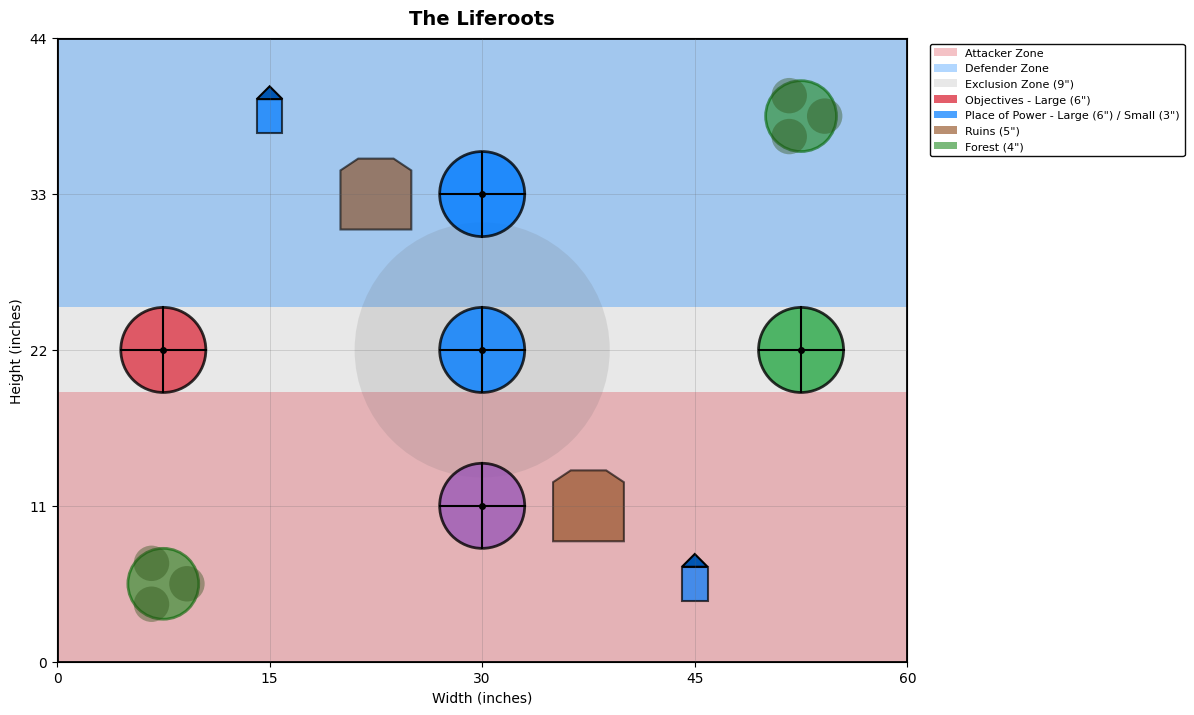
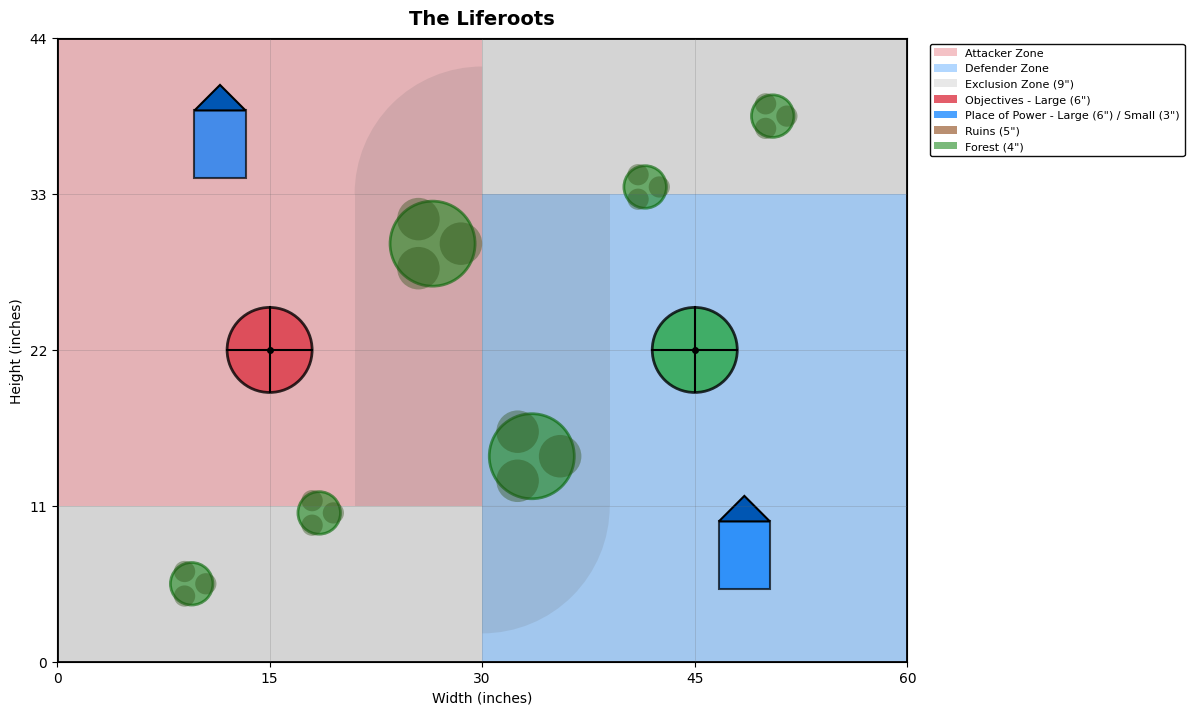
Lock The Liferoots: Complete all 12 GHB 2025-2026 battle plans - vertical split deployment with neutral corners, 9 inch rectangular/quarter-circle exclusions, 2 objectives, 2 large PoP, 2 large forests, 4 small forests

diff --git a/battle-plans-demo.html b/battle-plans-demo.html
@@ -56,7 +56,7 @@
     </div>
     <div class="status-summary">
         <div class="status-item">
-            <span class="status-count locked">10</span>
+            <span class="status-count locked">12</span>
             <div class="status-label">LOCKED</div>
         </div>
         <div class="status-item">
@@ -64,7 +64,7 @@
             <div class="status-label">IN PROGRESS</div>
         </div>
         <div class="status-item">
-            <span class="status-count remaining">1</span>
+            <span class="status-count remaining">-1</span>
             <div class="status-label">REMAINING</div>
         </div>
     </div>
@@ -73,57 +73,6 @@
             <div class="card">
                 <div class="card-header">
                     <div class="mission-num">Mission 1 of 12</div>
-                    <h2>Surge of Slaughter</h2>
-                </div>
-                <div class="grid4">
-                    <div class="col">
-                        <h3><span class="badge badge-waha">WAHAPEDIA</span></h3>
-                        <div class="img-box">
-                            <img src="assets/battle-plans/aos-surge-of-slaughter.png" alt="Surge of Slaughter Wahapedia">
-                            <div class="img-label">Original Source</div>
-                        </div>
-                    </div>
-                    <div class="col">
-                        <h3><span class="badge badge-aoi">AGE OF INDEX</span></h3>
-                        <div class="img-box">
-                            <img src="assets/battle-plans-ageofindex/aos-surge-of-slaughter.png" alt="Surge of Slaughter AOI">
-                            <div class="img-label">ageofindex.com</div>
-                        </div>
-                    </div>
-                    <div class="col">
-                        <h3><span class="badge badge-matplot">MATPLOTLIB</span></h3>
-                        <div class="img-box">
-                            <img src="assets/battle-plans-matplotlib/aos-surge-of-slaughter-matplotlib.png" alt="Surge of Slaughter Generated">
-                            <div class="img-label">Generated Diagram</div>
-                        </div>
-                    </div>
-                    <div class="col">
-                        <h3><span class="badge badge-elem">BATTLEFIELD ELEMENTS</span></h3>
-                        <div class="elem-list">
-                            <div class="elem-item zone-item"><span class="elem-type">Deployment zone</span> Red Top Zone<div class="zone-coords">(0", 22") → (60", 22") → (60", 44") → (0", 44")</div></div>
-                                <div class="elem-item zone-item"><span class="elem-type">Deployment zone</span> Blue Bottom Zone<div class="zone-coords">(0", 0") → (60", 0") → (60", 22") → (0", 22")</div></div>
-                                <div class="elem-item zone-item"><span class="elem-type">Exclusion zone</span> 9" from blue edge<div class="zone-coords">(0", 13") → (60", 13") → (60", 22") → (0", 22")</div></div>
-                                <div class="elem-item zone-item"><span class="elem-type">Exclusion zone</span> 9" from red edge<div class="zone-coords">(0", 22") → (60", 22") → (60", 31") → (0", 31")</div></div>
-                                <div class="elem-item"><span class="elem-type">Objective</span> <span class="color-badge color-blue"></span>Blue Center (large)<span class="coords">(30", 22")</span></div>
-                                <div class="elem-item"><span class="elem-type">Objective</span> <span class="color-badge color-green"></span>Green G2 (large)<span class="coords">(22.5", 38.5")</span></div>
-                                <div class="elem-item"><span class="elem-type">Objective</span> <span class="color-badge color-green"></span>Green G15 (large)<span class="coords">(37.5", 5.5")</span></div>
-                                <div class="elem-item"><span class="elem-type">Objective</span> <span class="color-badge color-red"></span>Red G8 (large)<span class="coords">(52.5", 27.5")</span></div>
-                                <div class="elem-item"><span class="elem-type">Objective</span> <span class="color-badge color-red"></span>Red G9 (large)<span class="coords">(7.5", 16.5")</span></div>
-                                <div class="elem-item"><span class="elem-type">Forest</span> Forest NW (large)<span class="coords">(13.5", 34.5")</span></div>
-                                <div class="elem-item"><span class="elem-type">Forest</span> Forest SE (large)<span class="coords">(46.5", 9.5")</span></div>
-                                <div class="elem-item"><span class="elem-type">Ruins</span> Ruins G7 (large)<span class="coords">(41.5", 23.5")</span></div>
-                                <div class="elem-item"><span class="elem-type">Ruins</span> Ruins G10 (large)<span class="coords">(18.5", 20.5")</span></div>
-                                <div class="elem-item"><span class="elem-type">Place of power</span> PoP G3 (small)<span class="coords">(31.5", 33.5")</span></div>
-                                <div class="elem-item"><span class="elem-type">Place of power</span> PoP G14 (small)<span class="coords">(28.5", 10.5")</span></div>
-                                <div class="elem-item"><span class="elem-type">Forest</span> Forest G3 (small)<span class="coords">(43.5", 34.5")</span></div>
-                                <div class="elem-item"><span class="elem-type">Forest</span> Forest G14 (small)<span class="coords">(16.5", 9.5")</span></div>
-                        </div>
-                    </div>
-                </div>
-            </div>
-            <div class="card">
-                <div class="card-header">
-                    <div class="mission-num">Mission 2 of 12</div>
                     <h2>Passing Seasons <span style="color: #28a745; font-weight: bold;">[LOCKED]</span></h2>
                 </div>
                 <div class="grid4">
@@ -172,7 +121,7 @@
             </div>
             <div class="card">
                 <div class="card-header">
-                    <div class="mission-num">Mission 3 of 12</div>
+                    <div class="mission-num">Mission 2 of 12</div>
                     <h2>Bountiful Equinox <span style="color: #28a745; font-weight: bold;">[LOCKED]</span></h2>
                 </div>
                 <div class="grid4">
@@ -223,7 +172,7 @@
             </div>
             <div class="card">
                 <div class="card-header">
-                    <div class="mission-num">Mission 4 of 12</div>
+                    <div class="mission-num">Mission 3 of 12</div>
                     <h2>Creeping Corruption <span style="color: #28a745; font-weight: bold;">[LOCKED]</span></h2>
                 </div>
                 <div class="grid4">
@@ -275,7 +224,7 @@
             </div>
             <div class="card">
                 <div class="card-header">
-                    <div class="mission-num">Mission 5 of 12</div>
+                    <div class="mission-num">Mission 4 of 12</div>
                     <h2>Cyclic Shifts <span style="color: #28a745; font-weight: bold;">[LOCKED]</span></h2>
                 </div>
                 <div class="grid4">
@@ -325,7 +274,7 @@
             </div>
             <div class="card">
                 <div class="card-header">
-                    <div class="mission-num">Mission 6 of 12</div>
+                    <div class="mission-num">Mission 5 of 12</div>
                     <h2>Grasp of Thorns <span style="color: #28a745; font-weight: bold;">[LOCKED]</span></h2>
                 </div>
                 <div class="grid4">
@@ -375,7 +324,7 @@
             </div>
             <div class="card">
                 <div class="card-header">
-                    <div class="mission-num">Mission 7 of 12</div>
+                    <div class="mission-num">Mission 6 of 12</div>
                     <h2>Lifecycle <span style="color: #28a745; font-weight: bold;">[LOCKED]</span></h2>
                 </div>
                 <div class="grid4">
@@ -428,7 +377,7 @@
             </div>
             <div class="card">
                 <div class="card-header">
-                    <div class="mission-num">Mission 8 of 12</div>
+                    <div class="mission-num">Mission 7 of 12</div>
                     <h2>Linked Ley Lines <span style="color: #28a745; font-weight: bold;">[LOCKED]</span></h2>
                 </div>
                 <div class="grid4">
@@ -477,7 +426,7 @@
             </div>
             <div class="card">
                 <div class="card-header">
-                    <div class="mission-num">Mission 9 of 12</div>
+                    <div class="mission-num">Mission 8 of 12</div>
                     <h2>Noxious Nexus <span style="color: #28a745; font-weight: bold;">[LOCKED]</span></h2>
                 </div>
                 <div class="grid4">
@@ -527,7 +476,7 @@
             </div>
             <div class="card">
                 <div class="card-header">
-                    <div class="mission-num">Mission 10 of 12</div>
+                    <div class="mission-num">Mission 9 of 12</div>
                     <h2>Paths of the Fey <span style="color: #28a745; font-weight: bold;">[LOCKED]</span></h2>
                 </div>
                 <div class="grid4">
@@ -580,7 +529,7 @@
             </div>
             <div class="card">
                 <div class="card-header">
-                    <div class="mission-num">Mission 11 of 12</div>
+                    <div class="mission-num">Mission 10 of 12</div>
                     <h2>Roiling Roots <span style="color: #28a745; font-weight: bold;">[LOCKED]</span></h2>
                 </div>
                 <div class="grid4">
@@ -631,8 +580,59 @@
             </div>
             <div class="card">
                 <div class="card-header">
+                    <div class="mission-num">Mission 11 of 12</div>
+                    <h2>Surge of Slaughter <span style="color: #28a745; font-weight: bold;">[LOCKED]</span></h2>
+                </div>
+                <div class="grid4">
+                    <div class="col">
+                        <h3><span class="badge badge-waha">WAHAPEDIA</span></h3>
+                        <div class="img-box">
+                            <img src="assets/battle-plans/aos-surge-of-slaughter.png" alt="Surge of Slaughter Wahapedia">
+                            <div class="img-label">Original Source</div>
+                        </div>
+                    </div>
+                    <div class="col">
+                        <h3><span class="badge badge-aoi">AGE OF INDEX</span></h3>
+                        <div class="img-box">
+                            <img src="assets/battle-plans-ageofindex/aos-surge-of-slaughter.png" alt="Surge of Slaughter AOI">
+                            <div class="img-label">ageofindex.com</div>
+                        </div>
+                    </div>
+                    <div class="col">
+                        <h3><span class="badge badge-matplot">MATPLOTLIB</span></h3>
+                        <div class="img-box">
+                            <img src="assets/battle-plans-matplotlib/aos-surge-of-slaughter-matplotlib.png" alt="Surge of Slaughter Generated">
+                            <div class="img-label">Generated Diagram</div>
+                        </div>
+                    </div>
+                    <div class="col">
+                        <h3><span class="badge badge-elem">BATTLEFIELD ELEMENTS</span></h3>
+                        <div class="elem-list">
+                            <div class="elem-item zone-item"><span class="elem-type">Deployment zone</span> Red Top Zone<div class="zone-coords">(0", 22") → (60", 22") → (60", 44") → (0", 44")</div></div>
+                                <div class="elem-item zone-item"><span class="elem-type">Deployment zone</span> Blue Bottom Zone<div class="zone-coords">(0", 0") → (60", 0") → (60", 22") → (0", 22")</div></div>
+                                <div class="elem-item zone-item"><span class="elem-type">Exclusion zone</span> 9" from blue edge<div class="zone-coords">(0", 13") → (60", 13") → (60", 22") → (0", 22")</div></div>
+                                <div class="elem-item zone-item"><span class="elem-type">Exclusion zone</span> 9" from red edge<div class="zone-coords">(0", 22") → (60", 22") → (60", 31") → (0", 31")</div></div>
+                                <div class="elem-item"><span class="elem-type">Objective</span> <span class="color-badge color-blue"></span>Blue Center (large)<span class="coords">(30", 22")</span></div>
+                                <div class="elem-item"><span class="elem-type">Objective</span> <span class="color-badge color-green"></span>Green G2 (large)<span class="coords">(22.5", 38.5")</span></div>
+                                <div class="elem-item"><span class="elem-type">Objective</span> <span class="color-badge color-green"></span>Green G15 (large)<span class="coords">(37.5", 5.5")</span></div>
+                                <div class="elem-item"><span class="elem-type">Objective</span> <span class="color-badge color-red"></span>Red G8 (large)<span class="coords">(52.5", 27.5")</span></div>
+                                <div class="elem-item"><span class="elem-type">Objective</span> <span class="color-badge color-red"></span>Red G9 (large)<span class="coords">(7.5", 16.5")</span></div>
+                                <div class="elem-item"><span class="elem-type">Forest</span> Forest NW (large)<span class="coords">(13.5", 34.5")</span></div>
+                                <div class="elem-item"><span class="elem-type">Forest</span> Forest SE (large)<span class="coords">(46.5", 9.5")</span></div>
+                                <div class="elem-item"><span class="elem-type">Ruins</span> Ruins G7 (large)<span class="coords">(41.5", 23.5")</span></div>
+                                <div class="elem-item"><span class="elem-type">Ruins</span> Ruins G10 (large)<span class="coords">(18.5", 20.5")</span></div>
+                                <div class="elem-item"><span class="elem-type">Place of power</span> PoP G3 (small)<span class="coords">(31.5", 33.5")</span></div>
+                                <div class="elem-item"><span class="elem-type">Place of power</span> PoP G14 (small)<span class="coords">(28.5", 10.5")</span></div>
+                                <div class="elem-item"><span class="elem-type">Forest</span> Forest G3 (small)<span class="coords">(43.5", 34.5")</span></div>
+                                <div class="elem-item"><span class="elem-type">Forest</span> Forest G14 (small)<span class="coords">(16.5", 9.5")</span></div>
+                        </div>
+                    </div>
+                </div>
+            </div>
+            <div class="card">
+                <div class="card-header">
                     <div class="mission-num">Mission 12 of 12</div>
-                    <h2>The Liferoots</h2>
+                    <h2>The Liferoots <span style="color: #28a745; font-weight: bold;">[LOCKED]</span></h2>
                 </div>
                 <div class="grid4">
                     <div class="col">
@@ -659,20 +659,26 @@
                     <div class="col">
                         <h3><span class="badge badge-elem">BATTLEFIELD ELEMENTS</span></h3>
                         <div class="elem-list">
-                            <div class="elem-item zone-item"><span class="elem-type">Deployment zone</span> Attacker Zone<div class="zone-coords">(0", 0") → (60", 0") → (60", 19") → (0", 19")</div></div>
-                                <div class="elem-item zone-item"><span class="elem-type">Deployment zone</span> Defender Zone<div class="zone-coords">(0", 25") → (60", 25") → (60", 44") → (0", 44")</div></div>
-                                <div class="elem-item"><span class="elem-type">Exclusion zone</span> 9" from center point <span class="coords">Center: (30", 22"), Radius: 9"</span></div>
-                                <div class="elem-item"><span class="elem-type">Objective</span> <span class="color-badge color-blue"></span>Center (large)<span class="coords">(30", 22")</span></div>
-                                <div class="elem-item"><span class="elem-type">Objective</span> <span class="color-badge color-red"></span>West (large)<span class="coords">(7.5", 22")</span></div>
-                                <div class="elem-item"><span class="elem-type">Objective</span> <span class="color-badge color-green"></span>East (large)<span class="coords">(52.5", 22")</span></div>
-                                <div class="elem-item"><span class="elem-type">Objective</span> <span class="color-badge color-blue"></span>North (large)<span class="coords">(30", 33")</span></div>
-                                <div class="elem-item"><span class="elem-type">Objective</span> <span class="color-badge color-purple"></span>South (large)<span class="coords">(30", 11")</span></div>
-                                <div class="elem-item"><span class="elem-type">Place of power</span> Place of Power NW (small)<span class="coords">(15", 38.5")</span></div>
-                                <div class="elem-item"><span class="elem-type">Place of power</span> Place of Power SE (small)<span class="coords">(45", 5.5")</span></div>
-                                <div class="elem-item"><span class="elem-type">Ruins</span> Ruins N <span class="coords">(22.5", 33")</span></div>
-                                <div class="elem-item"><span class="elem-type">Ruins</span> Ruins S <span class="coords">(37.5", 11")</span></div>
-                                <div class="elem-item"><span class="elem-type">Forest</span> Forest NE <span class="coords">(52.5", 38.5")</span></div>
-                                <div class="elem-item"><span class="elem-type">Forest</span> Forest SW <span class="coords">(7.5", 5.5")</span></div>
+                            <div class="elem-item zone-item"><span class="elem-type">Deployment zone</span> Red Zone<div class="zone-coords">(0", 11") → (30", 11") → (30", 44") → (0", 44")</div></div>
+                                <div class="elem-item zone-item"><span class="elem-type">Deployment zone</span> Blue Zone<div class="zone-coords">(30", 0") → (60", 0") → (60", 33") → (30", 33")</div></div>
+                                <div class="elem-item zone-item"><span class="elem-type">Deployment zone</span> Neutral Top Zone<div class="zone-coords">(30", 33") → (60", 33") → (60", 44") → (30", 44")</div></div>
+                                <div class="elem-item zone-item"><span class="elem-type">Deployment zone</span> Neutral Bottom Zone<div class="zone-coords">(0", 0") → (30", 0") → (30", 11") → (0", 11")</div></div>
+                                <div class="elem-item zone-item"><span class="elem-type">Exclusion zone</span> Red G6 Exclusion<div class="zone-coords">(21", 22") → (30", 22") → (30", 33") → (21", 33")</div></div>
+                                <div class="elem-item zone-item"><span class="elem-type">Exclusion zone</span> Blue G7 Exclusion<div class="zone-coords">(30", 22") → (39", 22") → (39", 33") → (30", 33")</div></div>
+                                <div class="elem-item zone-item"><span class="elem-type">Exclusion zone</span> Red G10 Exclusion<div class="zone-coords">(21", 11") → (30", 11") → (30", 22") → (21", 22")</div></div>
+                                <div class="elem-item zone-item"><span class="elem-type">Exclusion zone</span> Blue G11 Exclusion<div class="zone-coords">(30", 11") → (39", 11") → (39", 22") → (30", 22")</div></div>
+                                <div class="elem-item"><span class="elem-type">Exclusion zone</span> G2 quarter circle <span class="coords">Center: (30", 33"), Radius: 9", Quadrant: top_left</span></div>
+                                <div class="elem-item"><span class="elem-type">Exclusion zone</span> G15 quarter circle <span class="coords">Center: (30", 11"), Radius: 9", Quadrant: bottom_right</span></div>
+                                <div class="elem-item"><span class="elem-type">Objective</span> <span class="color-badge color-green"></span>Green Obj (large)<span class="coords">(45", 22")</span></div>
+                                <div class="elem-item"><span class="elem-type">Objective</span> <span class="color-badge color-red"></span>Red Obj (large)<span class="coords">(15", 22")</span></div>
+                                <div class="elem-item"><span class="elem-type">Place of power</span> PoP G1 (large)<span class="coords">(11.5", 36.5")</span></div>
+                                <div class="elem-item"><span class="elem-type">Forest</span> Forest G6 (large)<span class="coords">(26.5", 29.5")</span></div>
+                                <div class="elem-item"><span class="elem-type">Place of power</span> PoP G16 (large)<span class="coords">(48.5", 7.5")</span></div>
+                                <div class="elem-item"><span class="elem-type">Forest</span> Forest G11 (large)<span class="coords">(33.5", 14.5")</span></div>
+                                <div class="elem-item"><span class="elem-type">Forest</span> Forest G4 (small)<span class="coords">(50.5", 38.5")</span></div>
+                                <div class="elem-item"><span class="elem-type">Forest</span> Forest G3 (small)<span class="coords">(41.5", 33.5")</span></div>
+                                <div class="elem-item"><span class="elem-type">Forest</span> Forest G13 (small)<span class="coords">(9.5", 5.5")</span></div>
+                                <div class="elem-item"><span class="elem-type">Forest</span> Forest G14 (small)<span class="coords">(18.5", 10.5")</span></div>
                         </div>
                     </div>
                 </div>

diff --git a/scripts/extract_mission_objects.py b/scripts/extract_mission_objects.py
@@ -315,26 +315,32 @@ MISSIONS = {
     "aos-the-liferoots": {
         "name": "The Liferoots",
         "deployment_zones": [
-            {"player": "Attacker", "color": "#dc3545", "alpha": 0.3, "coords": [(0, 0), (60, 0), (60, 19), (0, 19)]},
-            {"player": "Defender", "color": "#007bff", "alpha": 0.3, "coords": [(0, 25), (60, 25), (60, 44), (0, 44)]},
+            {"player": "Red", "color": "#dc3545", "alpha": 0.3, "coords": [(0, 11), (30, 11), (30, 44), (0, 44)]},
+            {"player": "Blue", "color": "#007bff", "alpha": 0.3, "coords": [(30, 0), (60, 0), (60, 33), (30, 33)]},
+            {"player": "Neutral Top", "color": "#666666", "alpha": 0.15, "coords": [(30, 33), (60, 33), (60, 44), (30, 44)]},
+            {"player": "Neutral Bottom", "color": "#666666", "alpha": 0.15, "coords": [(0, 0), (30, 0), (30, 11), (0, 11)]},
         ],
         "exclusion_zones": [
-            {"type": "circle", "center": (30, 22), "radius": 9, "color": "#666666", "alpha": 0.15, "note": "9\" from center point"},
+            {"player": "Red G6 Exclusion", "color": "#666666", "alpha": 0.15, "coords": [(21, 22), (30, 22), (30, 33), (21, 33)]},
+            {"player": "Blue G7 Exclusion", "color": "#666666", "alpha": 0.15, "coords": [(30, 22), (39, 22), (39, 33), (30, 33)]},
+            {"player": "Red G10 Exclusion", "color": "#666666", "alpha": 0.15, "coords": [(21, 11), (30, 11), (30, 22), (21, 22)]},
+            {"player": "Blue G11 Exclusion", "color": "#666666", "alpha": 0.15, "coords": [(30, 11), (39, 11), (39, 22), (30, 22)]},
+            {"type": "quarter_circle", "center": (30, 33), "radius": 9, "quadrant": "top_left", "color": "#666666", "alpha": 0.15, "note": "G2 quarter circle"},
+            {"type": "quarter_circle", "center": (30, 11), "radius": 9, "quadrant": "bottom_right", "color": "#666666", "alpha": 0.15, "note": "G15 quarter circle"},
         ],
         "objectives": [
-            {"name": "Center", "x": 30, "y": 22, "color": "blue", "type": "objective", "size": "large"},
-            {"name": "West", "x": 7.5, "y": 22, "color": "red", "type": "objective", "size": "large"},
-            {"name": "East", "x": 52.5, "y": 22, "color": "green", "type": "objective", "size": "large"},
-            {"name": "North", "x": 30, "y": 33, "color": "blue", "type": "objective", "size": "large"},
-            {"name": "South", "x": 30, "y": 11, "color": "purple", "type": "objective", "size": "large"},
+            {"name": "Green Obj", "x": 45, "y": 22, "color": "green", "type": "objective", "size": "large"},
+            {"name": "Red Obj", "x": 15, "y": 22, "color": "red", "type": "objective", "size": "large"},
         ],
         "terrain": [
-            {"name": "Place of Power NW", "x": 15, "y": 38.5, "type": "place_of_power", "size": "small"},
-            {"name": "Place of Power SE", "x": 45, "y": 5.5, "type": "place_of_power", "size": "small"},
-            {"name": "Ruins N", "x": 22.5, "y": 33, "type": "ruins"},
-            {"name": "Ruins S", "x": 37.5, "y": 11, "type": "ruins"},
-            {"name": "Forest NE", "x": 52.5, "y": 38.5, "type": "forest"},
-            {"name": "Forest SW", "x": 7.5, "y": 5.5, "type": "forest"},
+            {"name": "PoP G1", "x": 11.5, "y": 36.5, "type": "place_of_power", "size": "large"},
+            {"name": "Forest G6", "x": 26.5, "y": 29.5, "type": "forest", "size": "large"},
+            {"name": "PoP G16", "x": 48.5, "y": 7.5, "type": "place_of_power", "size": "large"},
+            {"name": "Forest G11", "x": 33.5, "y": 14.5, "type": "forest", "size": "large"},
+            {"name": "Forest G4", "x": 50.5, "y": 38.5, "type": "forest", "size": "small"},
+            {"name": "Forest G3", "x": 41.5, "y": 33.5, "type": "forest", "size": "small"},
+            {"name": "Forest G13", "x": 9.5, "y": 5.5, "type": "forest", "size": "small"},
+            {"name": "Forest G14", "x": 18.5, "y": 10.5, "type": "forest", "size": "small"},
         ]
     },
 }

diff --git a/scripts/build_demo_fixed.py b/scripts/build_demo_fixed.py
@@ -5,7 +5,7 @@ import subprocess
 from extract_mission_objects import MISSIONS as MISSION_DATA
 
 # Current mission being worked on (shows first in gallery)
-CURRENT_MISSION = "aos-surge-of-slaughter"
+CURRENT_MISSION = ""
 
 # Locked missions (completed and verified)
 LOCKED_MISSIONS = [
@@ -19,11 +19,13 @@ LOCKED_MISSIONS = [
     "aos-noxious-nexus",
     "aos-paths-of-the-fey",
     "aos-roiling-roots",
+    "aos-surge-of-slaughter",
+    "aos-the-liferoots",
 ]
 
 # Convert MISSIONS dict to list format for template
 missions = []
-mission_order = [CURRENT_MISSION] + [k for k in MISSION_DATA.keys() if k != CURRENT_MISSION]
+mission_order = [k for k in MISSION_DATA.keys()] if not CURRENT_MISSION else [CURRENT_MISSION] + [k for k in MISSION_DATA.keys() if k != CURRENT_MISSION]
 
 for slug in mission_order:
     data = MISSION_DATA[slug]
@@ -46,10 +48,16 @@ for slug in mission_order:
             if zone.get('type') == 'circle':
                 coords_str = f"Center: ({zone['center'][0]}\", {zone['center'][1]}\"), Radius: {zone['radius']}\""
                 name = zone.get('note', 'Exclusion Zone')
+            elif zone.get('type') == 'semicircle':
+                coords_str = f"Center: ({zone['center'][0]}\", {zone['center'][1]}\"), Radius: {zone['radius']}\", Orientation: {zone.get('orientation', 'N/A')}"
+                name = zone.get('note', 'Semicircle Exclusion')
+            elif zone.get('type') == 'quarter_circle':
+                coords_str = f"Center: ({zone['center'][0]}\", {zone['center'][1]}\"), Radius: {zone['radius']}\", Quadrant: {zone.get('quadrant', 'N/A')}"
+                name = zone.get('note', 'Quarter Circle Exclusion')
             else:
                 # Handle polygon zones
                 coords_str = ' → '.join([f"({x}\", {y}\")" for x, y in zone['coords']])
-                name = zone.get('note', 'Exclusion Zone (9\")')
+                name = zone.get('note', zone.get('player', 'Exclusion Zone (9\")'))
             
             elements.append({
                 'type': 'exclusion_zone',

diff --git a/scripts/generate_battle_plans.py b/scripts/generate_battle_plans.py
@@ -49,6 +49,40 @@ def draw_deployment_zones(ax, zones):
                 edgecolor='none'
             )
             ax.add_patch(circle)
+        elif zone.get('type') == 'semicircle':
+            # Semicircle zone
+            if zone.get('orientation') == 'top':
+                theta1, theta2 = 0, 180
+            elif zone.get('orientation') == 'bottom':
+                theta1, theta2 = 180, 360
+            elif zone.get('orientation') == 'left':
+                theta1, theta2 = 90, 270
+            else:  # right
+                theta1, theta2 = 270, 90
+            wedge = patches.Wedge(
+                zone['center'],
+                zone['radius'],
+                theta1=theta1,
+                theta2=theta2,
+                facecolor=zone['color'],
+                alpha=zone.get('alpha', 0.3),
+                edgecolor='none'
+            )
+            ax.add_patch(wedge)
+        elif zone.get('type') == 'quarter_circle':
+            # Quarter circle zone
+            theta1 = {'top_right': 0, 'top_left': 90, 'bottom_left': 180, 'bottom_right': 270}.get(zone.get('quadrant', 'top_right'), 0)
+            theta2 = theta1 + 90
+            wedge = patches.Wedge(
+                zone['center'],
+                zone['radius'],
+                theta1=theta1,
+                theta2=theta2,
+                facecolor=zone['color'],
+                alpha=zone.get('alpha', 0.3),
+                edgecolor='none'
+            )
+            ax.add_patch(wedge)
         else:
             # Polygon zone (default)
             polygon = patches.Polygon(
